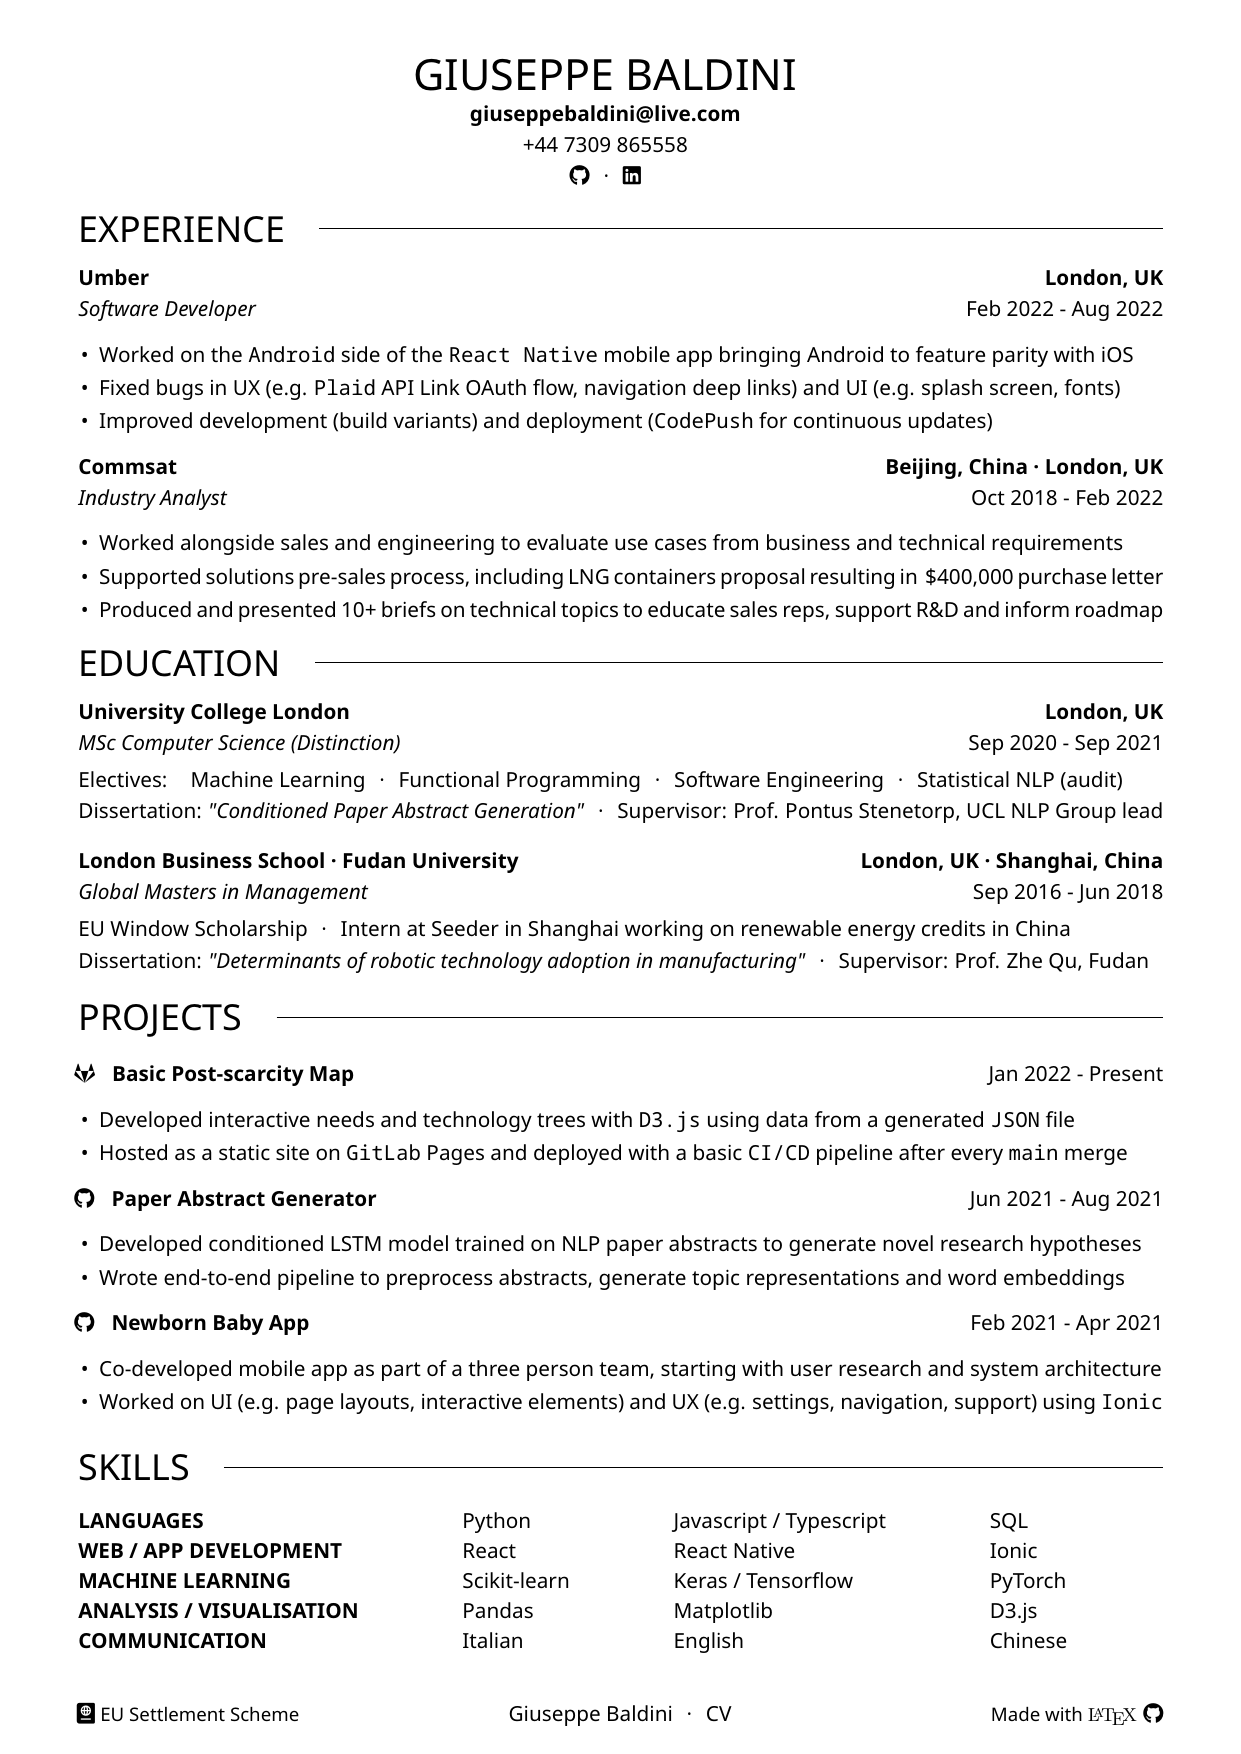
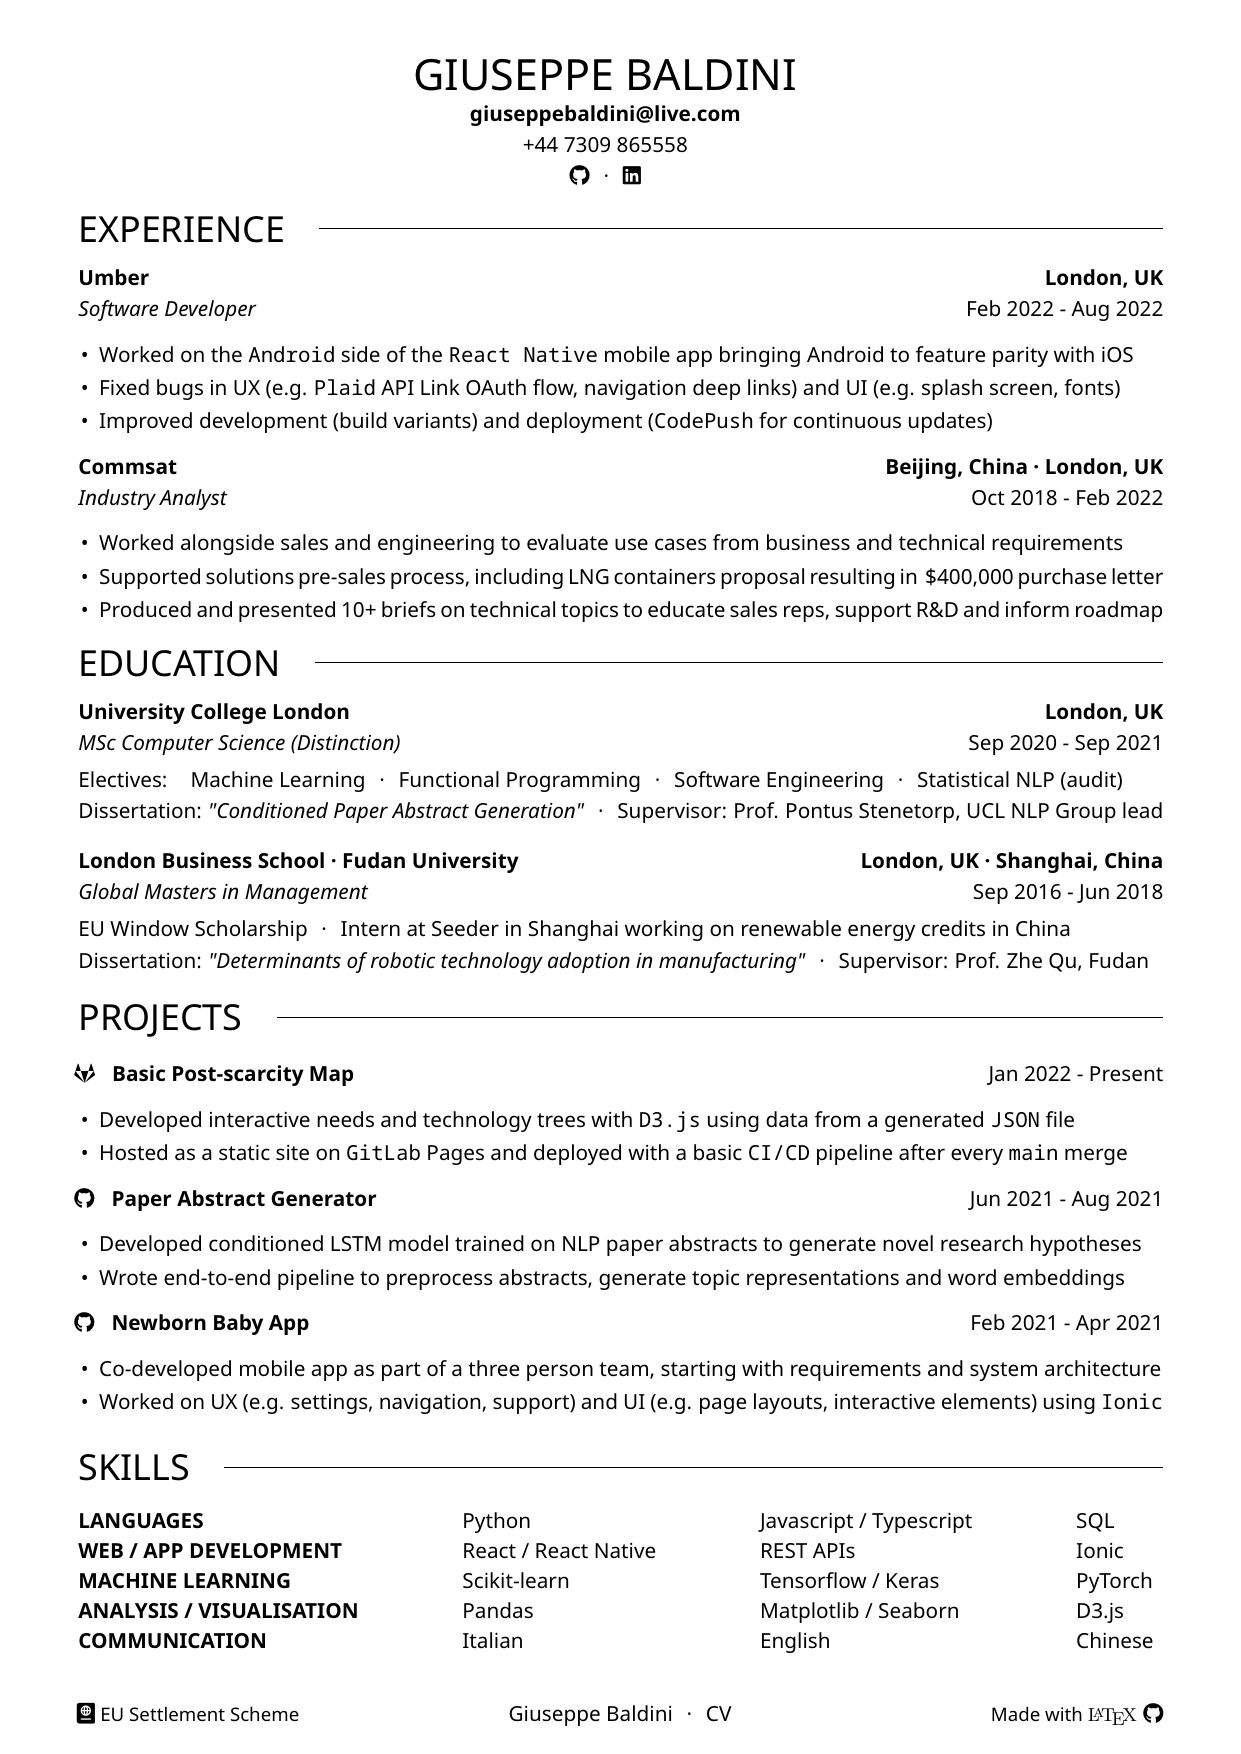
Updated Skills section

diff --git a/cv/skills.tex b/cv/skills.tex
@@ -1,8 +1,8 @@
 \sectiontitle{Skills}
 
 \skilltabular
-{\skill{Languages}                  {Python}        {Javascript / Typescript}     {SQL}         {}  }
-{\skill{Web / App Development}      {React}         {React Native}                {Ionic}       {}  }
-{\skill{Machine Learning}           {Scikit-learn}  {Keras / Tensorflow}          {PyTorch}     {}  }
-{\skill{Analysis / Visualisation}   {Pandas}        {Matplotlib}                  {D3.js}       {}  }
-{\skill{Communication}              {Italian}       {English}                     {Chinese}     {}  }
+{\skill{Languages}                  {Python}                {Javascript / Typescript}     {SQL}         {}  }
+{\skill{Web / App Development}      {React / React Native}  {REST APIs}                   {Ionic}       {}  }
+{\skill{Machine Learning}           {Scikit-learn}          {Tensorflow / Keras}          {PyTorch}     {}  }
+{\skill{Analysis / Visualisation}   {Pandas}                {Matplotlib / Seaborn}        {D3.js}       {}  }
+{\skill{Communication}              {Italian}               {English}                     {Chinese}     {}  }

diff --git a/cv/projects.tex b/cv/projects.tex
@@ -18,5 +18,5 @@
 
 \project{Newborn Baby App}              {Feb 2021}{Apr 2021}
 {github}{https://github.com/UCLComputerScience/COMP0067_2021_Team16}
-{Co-developed mobile app as part of a three person team, starting with user research and system architecture}
-{Worked on UI (e.g. page layouts, interactive elements) and UX (e.g. settings, navigation, support) using \code{Ionic}}
+{Co-developed mobile app as part of a three person team, starting with requirements and system architecture}
+{Worked on UX (e.g. settings, navigation, support) and UI (e.g. page layouts, interactive elements) using \code{Ionic}}
